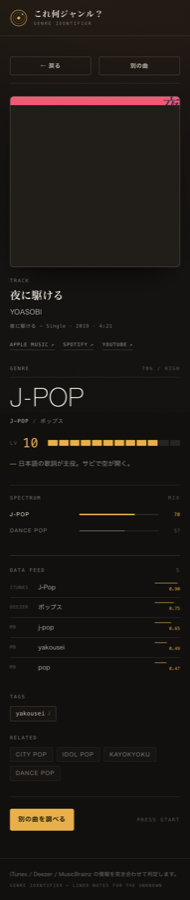
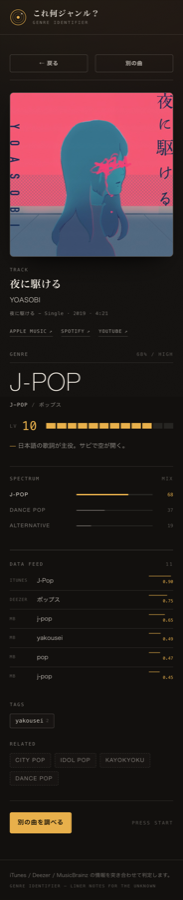
fix: デプロイ直後に古い判定が返る問題を解消（キャッシュキーにバージョン付与）
- functions/_lib/cache.ts に CACHE_VERSION を追加し、キーの前置に使用
- 判定レスポンスのスキーマ変更（arcade/tagline）が本番キャッシュで1時間残る問題を解消
- README/USAGE/SPEC/ARCHITECTURE をIIDX風UIに合わせて更新、スクリーンショット差し替え

diff --git a/functions/_lib/cache.ts b/functions/_lib/cache.ts
@@ -18,6 +18,12 @@ interface MemoryEntry {
 const MEMORY_LIMIT = 500;
 const memory = new Map<string, MemoryEntry>();
 
+/**
+ * キャッシュのスキーマ版。レスポンスの形やタクソノミーを変えたらここを上げる。
+ * デプロイ直後に古いレスポンスが返るのを防ぐ（キーが変わるので前のキャッシュを引かない）。
+ */
+export const CACHE_VERSION = 'v3';
+
 const CACHE_ORIGIN = 'https://genre-finder.internal/__cache/';
 
 interface CacheLike {
@@ -31,7 +37,7 @@ function cacheStore(): CacheLike | undefined {
 }
 
 function cacheRequest(key: string): Request {
-  return new Request(`${CACHE_ORIGIN}${encodeURIComponent(key)}`);
+  return new Request(`${CACHE_ORIGIN}${CACHE_VERSION}/${encodeURIComponent(key)}`);
 }
 
 function remember(key: string, value: unknown, ttlSeconds: number): void {
